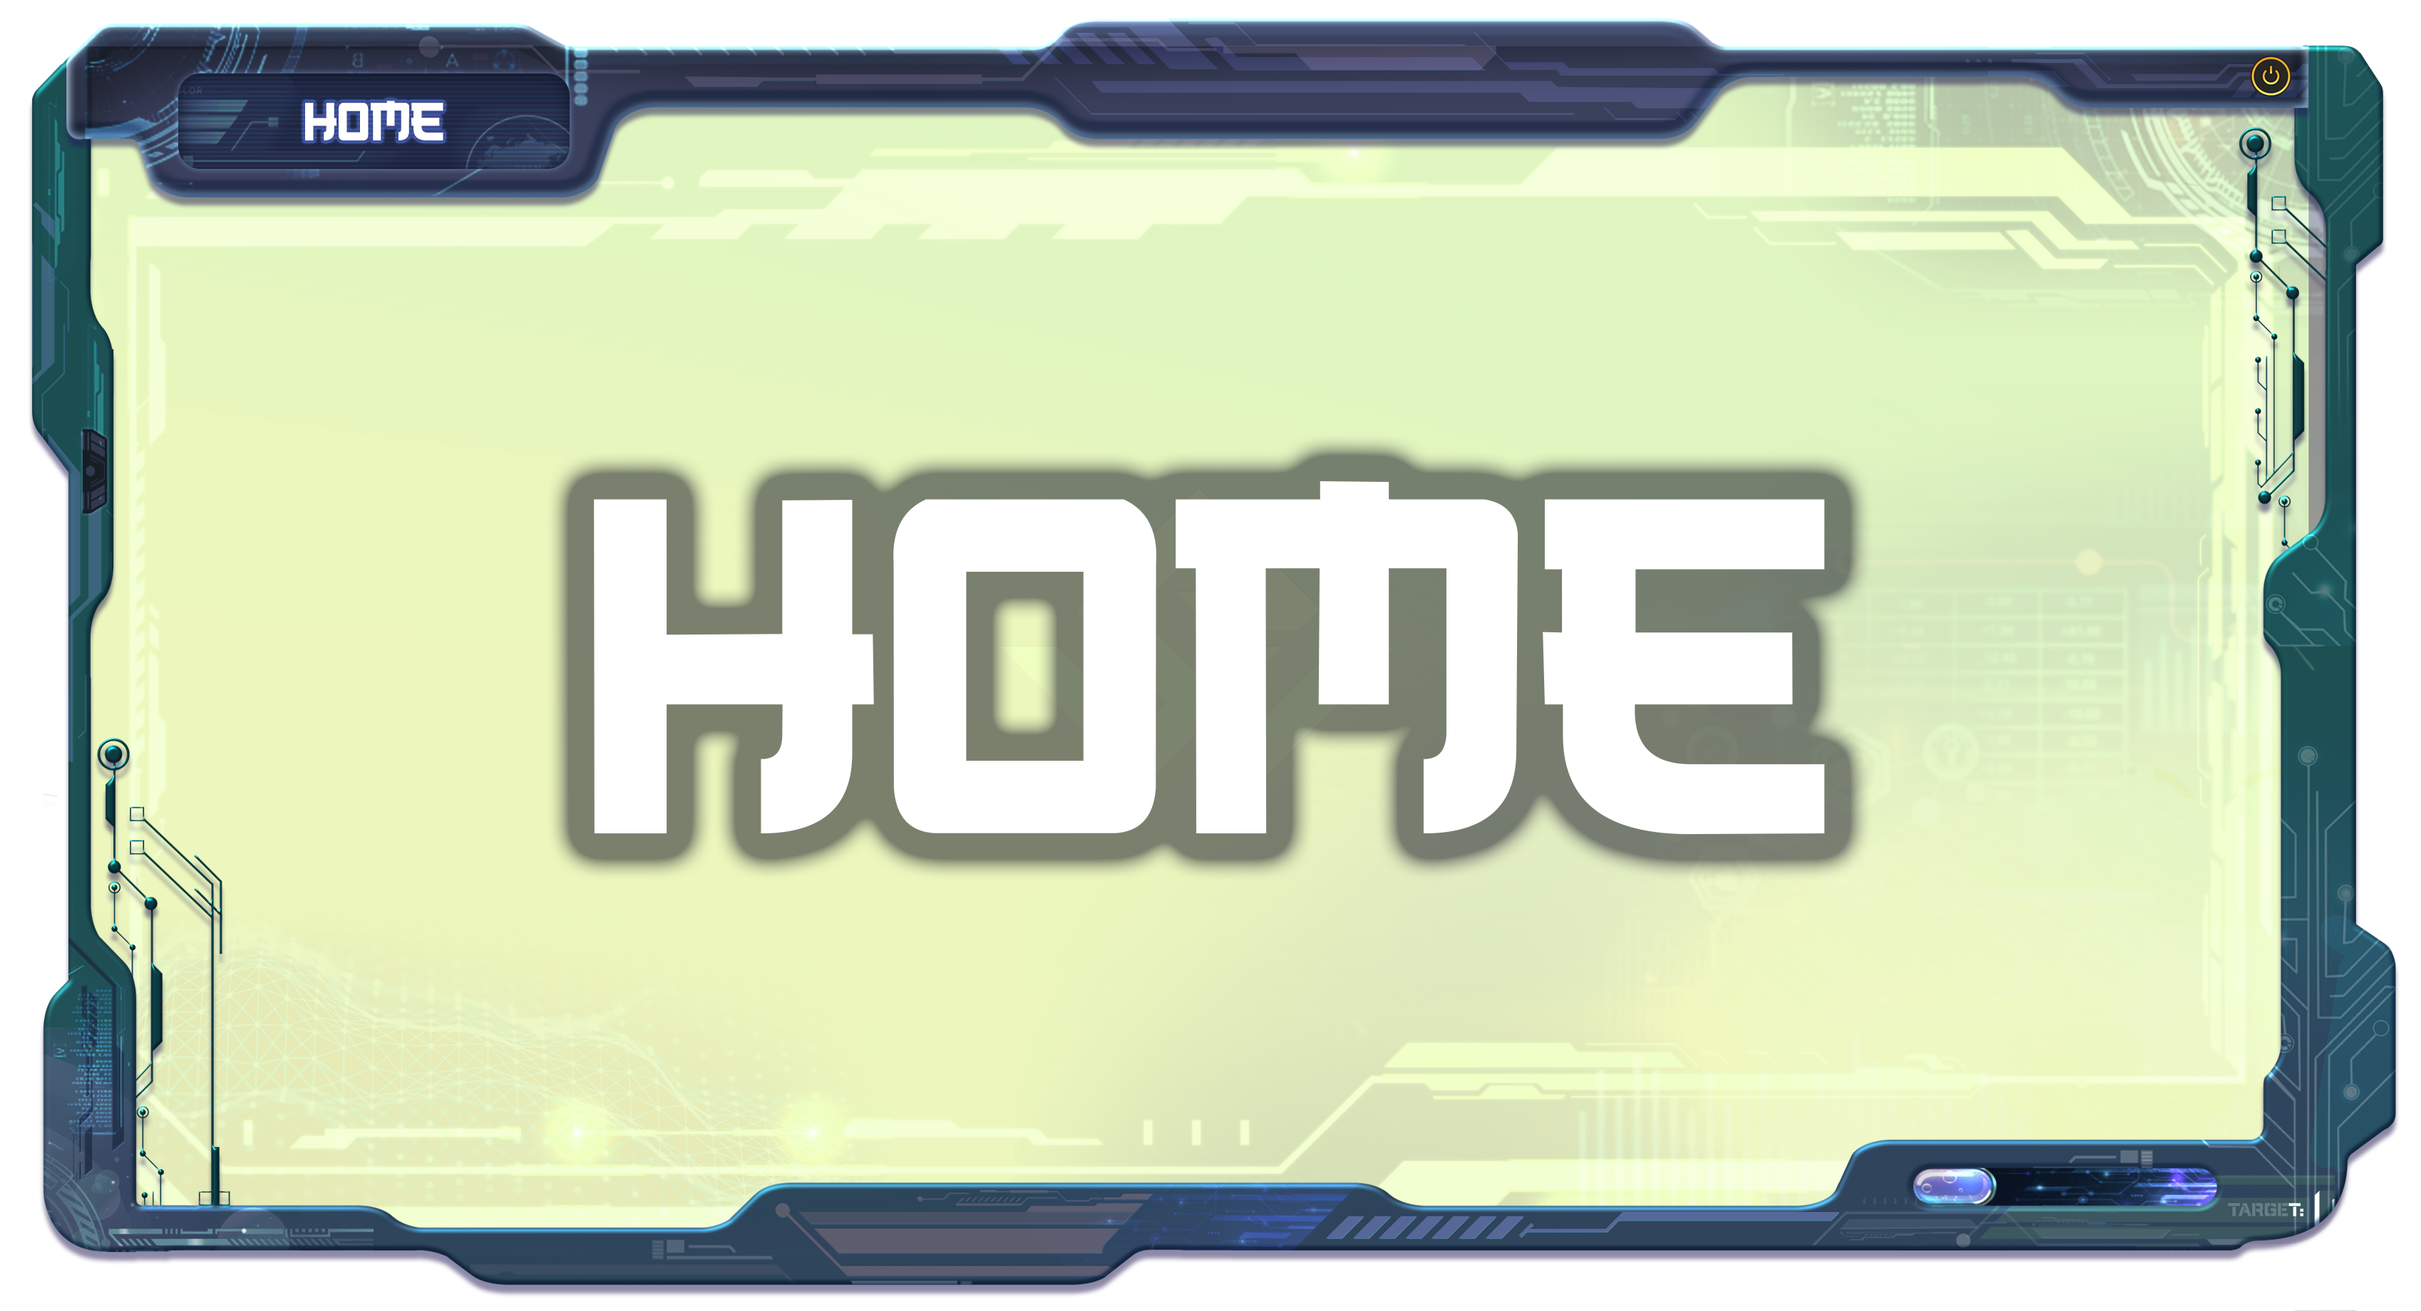
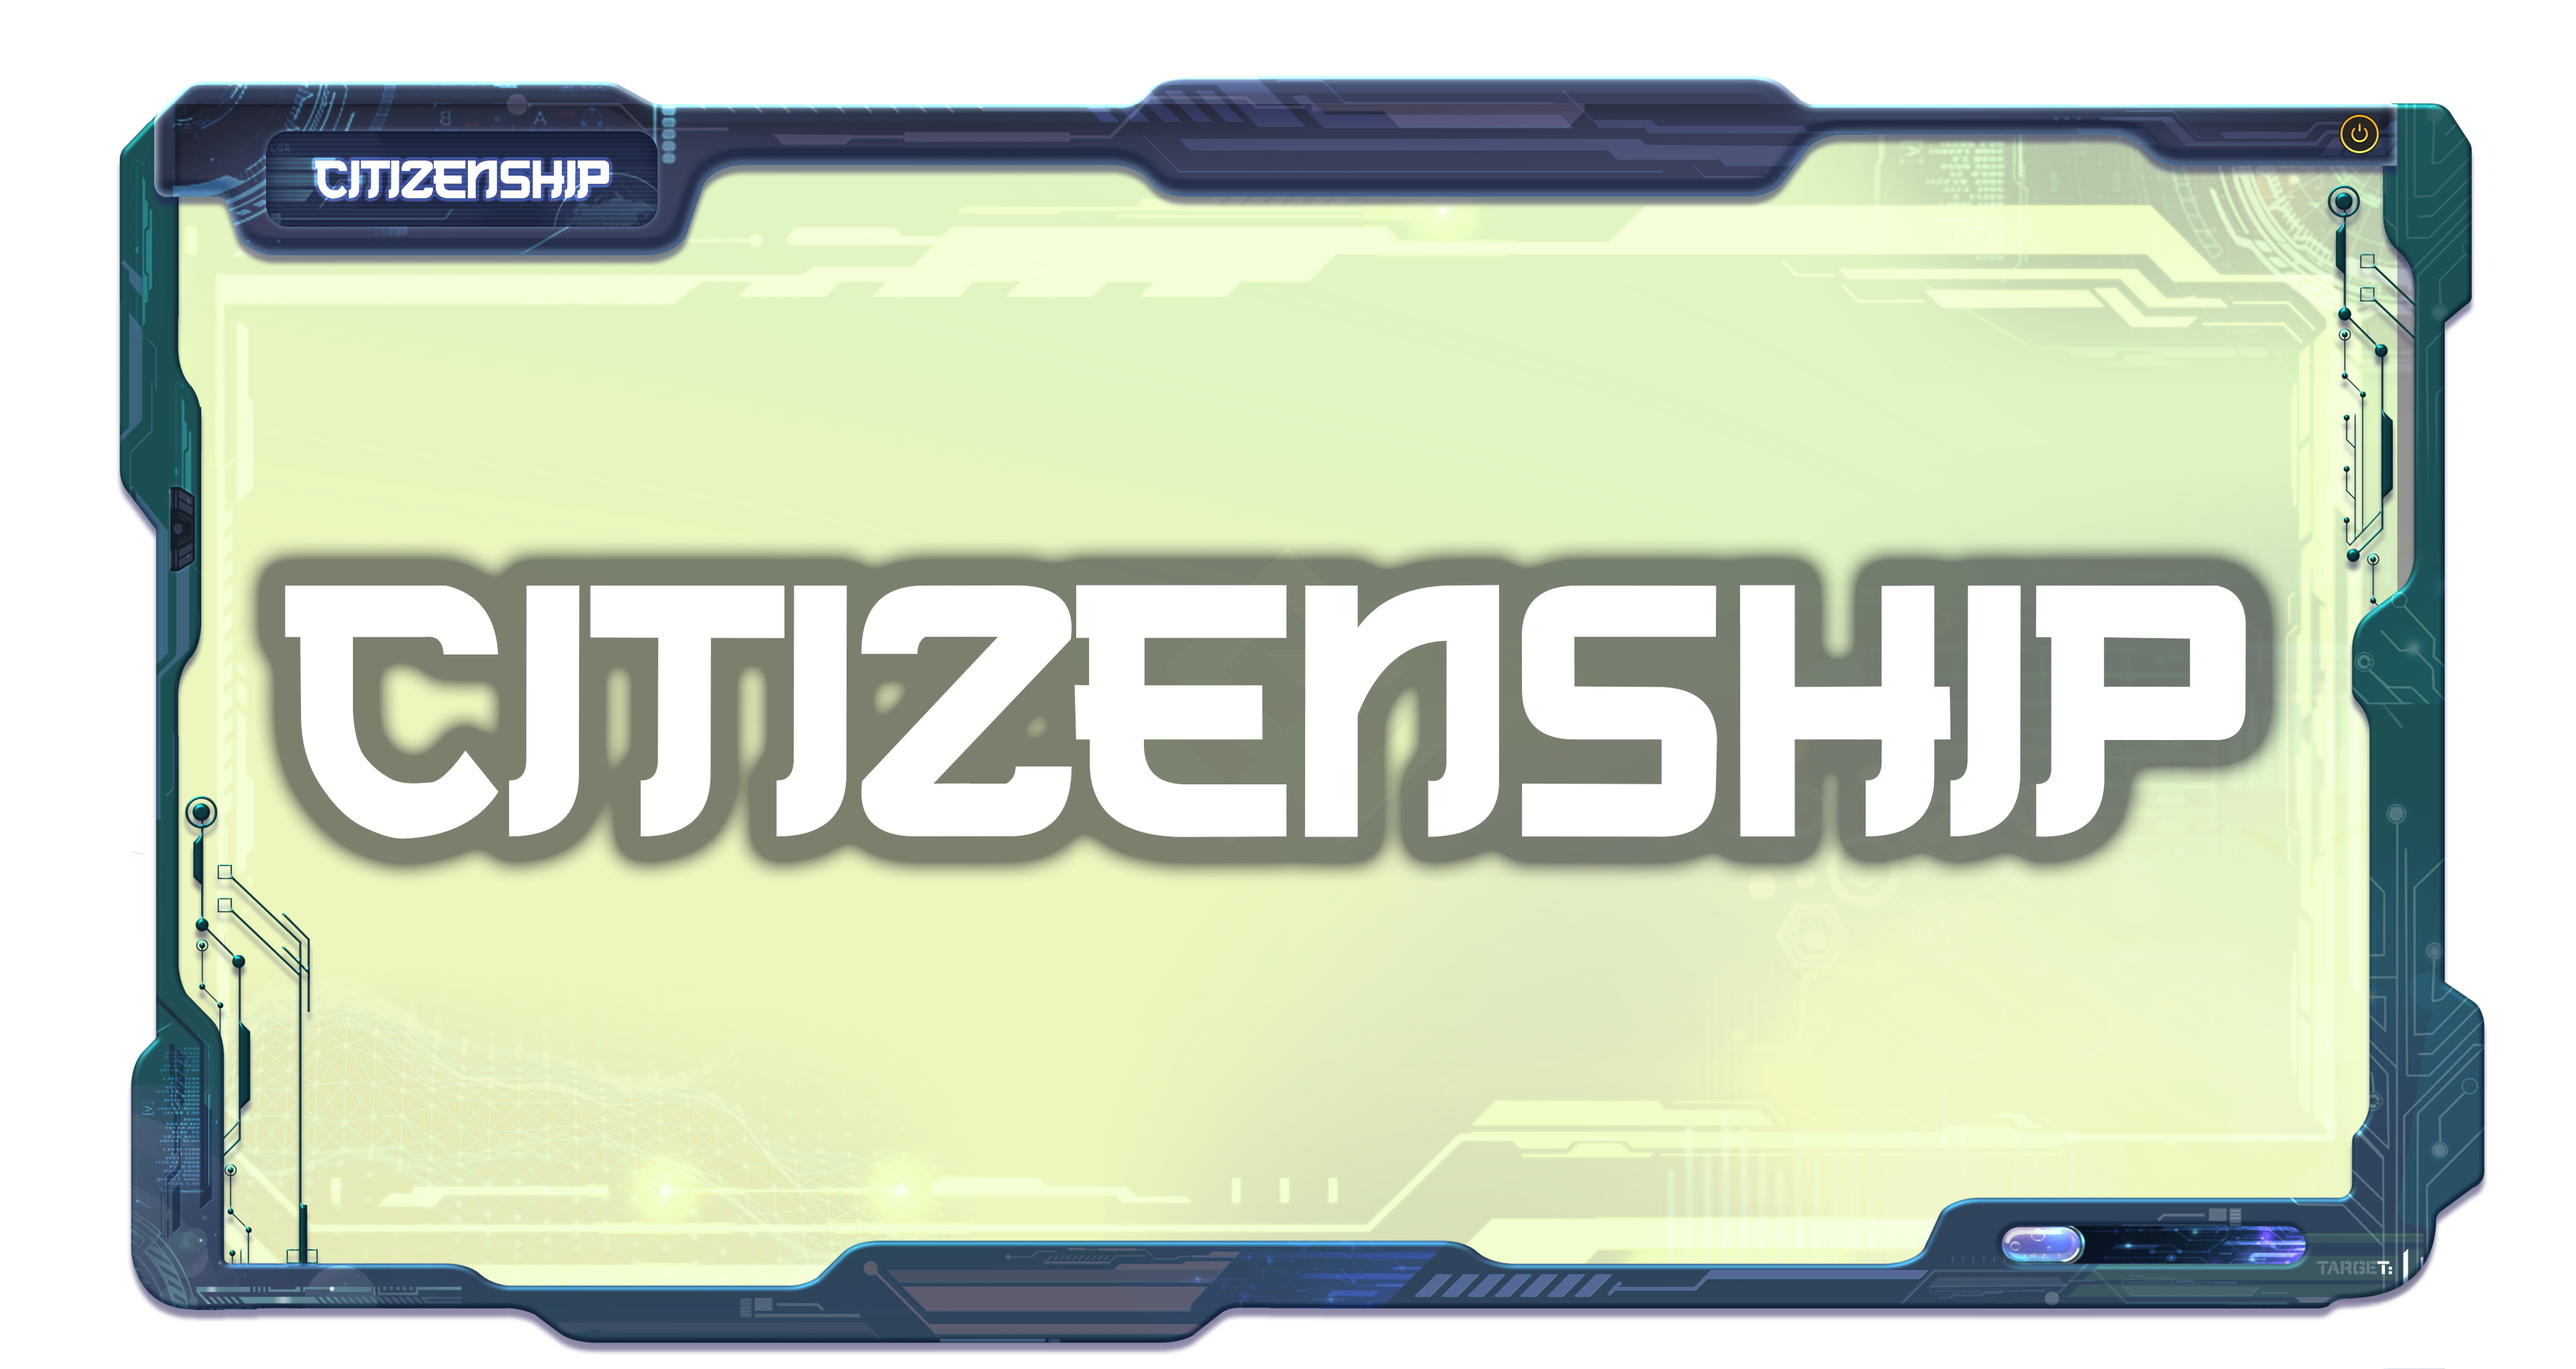
0311 ej 주소변경

diff --git a/src/app/pages/main-gate/index.js b/src/app/pages/main-gate/index.js
@@ -13,6 +13,7 @@ import Market from "./frame/market";
 import { useHistory } from "react-router-dom";
 import { readInfo } from "../../api";
 import Message from "./frame/message";
+import { GrCursor } from "react-icons/gr";
 
 const animationOrderList = [
   "frame-1st",
@@ -49,7 +50,10 @@ const TopMenu = ({
     >
       <div
         className={Style["logo"]}
-        style={{ backgroundImage: "url(/images/frame/logo.png)" }}
+        style={{ backgroundImage: "url(/images/frame/logo.png)"}}
+        onClick={() => {
+          history.push('/main-entrance')
+        }}
       ></div>
       <div className={Style["top-menu-button-wrapper"]}>
         <div
@@ -60,7 +64,7 @@ const TopMenu = ({
           }}
         ></div>
         <div
-          style={{ backgroundImage: "url(/images/frame/top-button/home.png)" }}
+          style={{ backgroundImage: "url(/images/frame/top-button/citizenship.png)" }}
           className={`${Style["top-menu-button"]} ${Style["home-button"]} pointer`}
           onClick={() => {
             onClick("home");
@@ -136,7 +140,7 @@ const TopMenu = ({
         ) : (
           <div
             style={{
-              backgroundImage: "url(/images/frame/top-button/sign-up.png)",
+              backgroundImage: "url(/images/frame/top-button/log-out.png)",
             }}
             className={`${Style["top-menu-button"]} ${Style["log-in-button"]} pointer`}
             onClick={() => {
@@ -150,12 +154,11 @@ const TopMenu = ({
         {languageCode === "ko" ? (
           <div
             style={{
-              color: "white",
+              color: "transparent",
               backgroundImage: "url(/images/frame/top-button/kr.png)",
               display: "flex",
               justifyContent: "center",
               alignItems: "center",
-              fontWeight: "bold",
             }}
             className={`${Style["lang-button"]} pointer`}
             onClick={() => {
@@ -179,10 +182,10 @@ const TopMenu = ({
             }}
             className={`${Style["lang-button"]} pointer`}
             onClick={() => {
-              if (languageCode === "ko") {
-                setLanguageCode("eng");
-              } else {
+              if (languageCode === "eng") {
                 setLanguageCode("ko");
+              } else {
+                setLanguageCode("eng");
               }
             }}
           >

diff --git a/src/app/pages/main-gate/frame/mypage/index.js b/src/app/pages/main-gate/frame/mypage/index.js
@@ -421,7 +421,8 @@ const MyPage = ({
                       <span>EWC를 RUGO로 변환시켜드립니다.</span>{/*언어변수값 들어갈곳*/}
                     </ReactTooltip>
                     <ExchangeRugo/>
-                    <p>CURRENT EXCHANGE RATE : 1 Erugo Coin = 3000 Point </p>
+                    <p>CURRENT EXCHANGE RATE : 1 Erugo Coin = 3,000 Point </p> 
+                    {/* 3000 변수 */}
                   </div>
                 </div>
                 <button className={
@@ -431,7 +432,7 @@ const MyPage = ({
                           setUserUUID(undefined)
                           sessionStorage.removeItem('userUUID')
                           sessionStorage.removeItem('walletAddress')
-                          history.push('/main-enterance')
+                          history.push('/main-entrance')
                       }
                   }>
                   로그아웃

diff --git a/src/app/pages/main-gate/frame/about/index.js b/src/app/pages/main-gate/frame/about/index.js
@@ -1,4 +1,4 @@
-import {React, useEffect, useRef} from "react";
+import {React, useEffect, useRef, useState} from "react";
 import Style from './style.module.css'
 import { useHistory } from "react-router-dom";
 
@@ -15,16 +15,19 @@ import SwiperCore, {
 
 // install Swiper modules
 SwiperCore.use([Mousewheel,Pagination]);
+
 const About = ({ language }) => {
-    const history = useHistory();
+    const [menuBtnClick, setMenuBtnClick] = useState(false);
+    const outSection = useRef();
+    
     console.log(language)
     useEffect(() => {
         
         console.log('componentDidMount[Function]');
     }, []);
-    onclick = () => {
-        history.push('/main-enterance')
-    }
+    
+    
+    
     return (
         <>
           

diff --git a/src/app/index.js b/src/app/index.js
@@ -488,7 +488,7 @@ const App = () => {
 
                 <div style={{ backgroundImage: 'url(/images/top-button/about.png)' }}></div>
                 <div style={{ backgroundImage: 'url(/images/top-button/auction.png)' }}></div>
-                <div style={{ backgroundImage: 'url(/images/top-button/button0.png)' }}></div>
+                <div style={{ backgroundImage: 'url(/images/top-button/kr.png)' }}></div>
                 <div style={{ backgroundImage: 'url(/images/top-button/buyland.png)' }}></div>
                 <div style={{ backgroundImage: 'url(/images/top-button/home.png)' }}></div>
                 <div style={{ backgroundImage: 'url(/images/top-button/log-in.png)' }}></div>

diff --git a/src/app/pages/main-gate/frame/home/index.js b/src/app/pages/main-gate/frame/home/index.js
@@ -9,7 +9,6 @@ import "swiper/components/pagination/pagination.min.css";
 
 import { Swiper, SwiperSlide } from "swiper/react";
 import SwiperCore, { Mousewheel, Pagination, Navigation } from "swiper";
-import Slide from '../components/slide'
 // install Swiper modules
 SwiperCore.use([Mousewheel, Pagination, Navigation]);
 

diff --git a/src/app/pages/main-gate/style.module.css b/src/app/pages/main-gate/style.module.css
@@ -87,6 +87,7 @@
     background-position: center;
     background-repeat: no-repeat;
     background-size: contain;
+    cursor: pointer;
 }
 .top-menu-button-wrapper {
     width: 86vw;

diff --git a/src/app/pages/mail-box/style.module.css b/src/app/pages/mail-box/style.module.css
@@ -7,6 +7,7 @@
     width: 800px;
     padding: 20px 0;
     margin: auto;
+    
 }
 
 .table-header {
